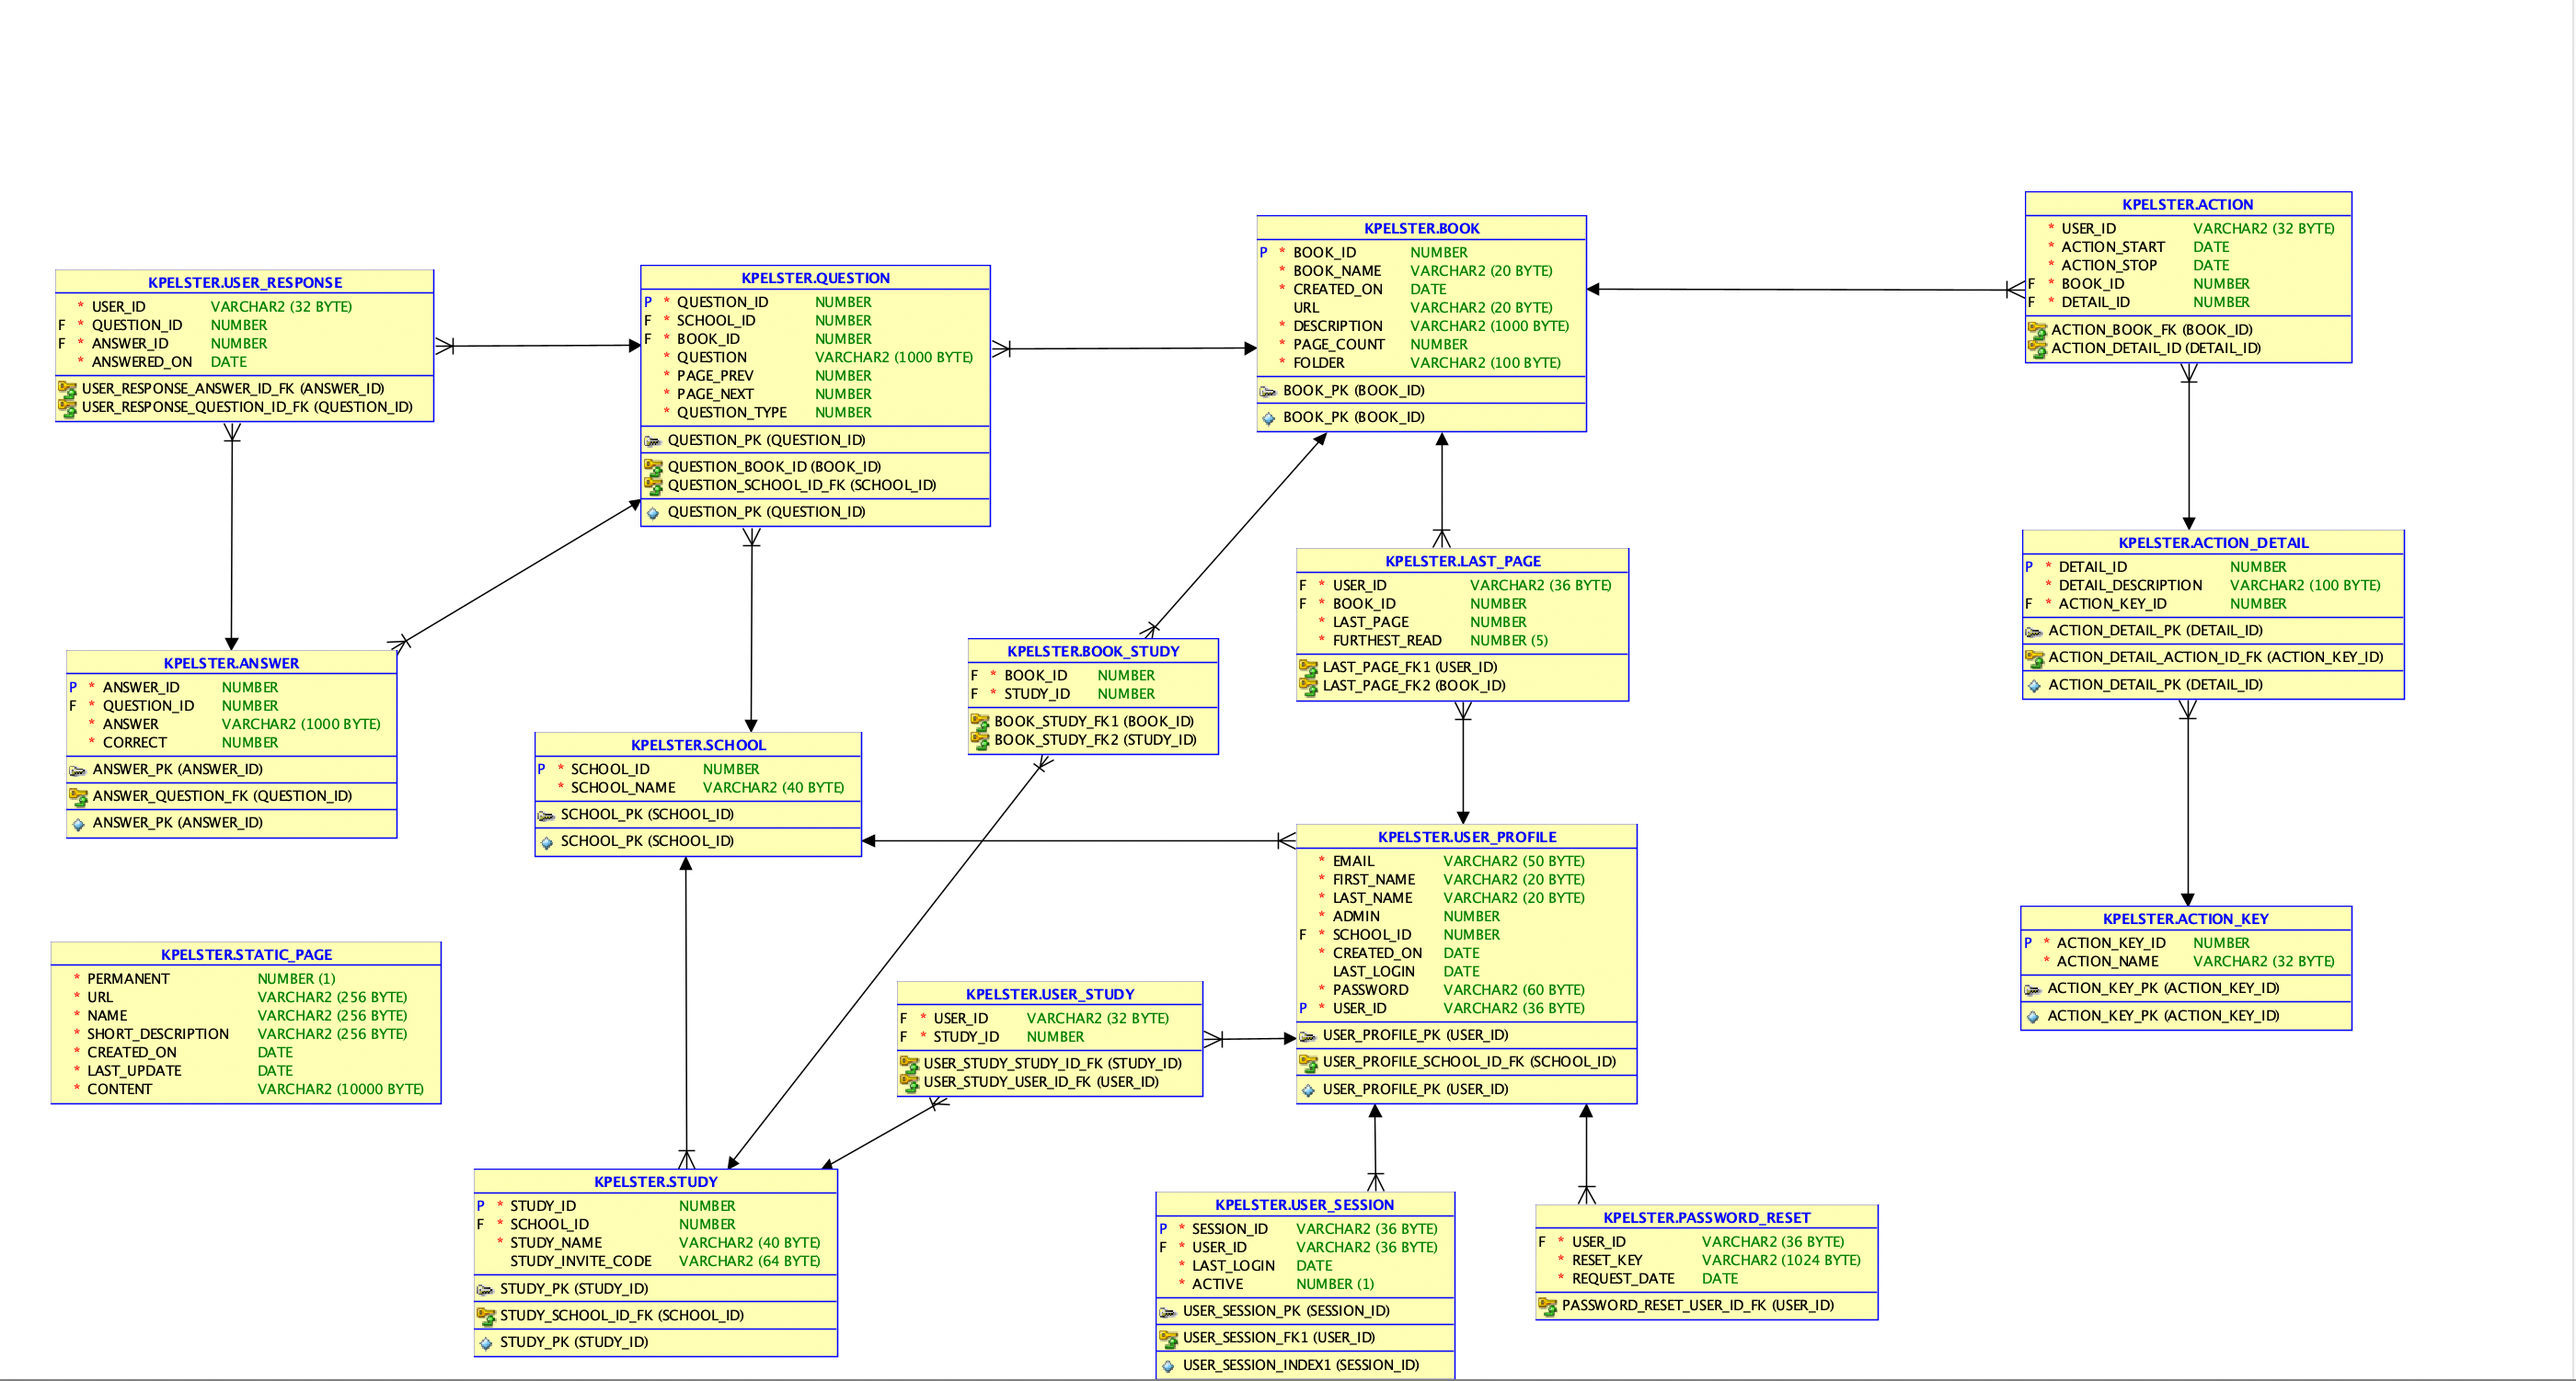
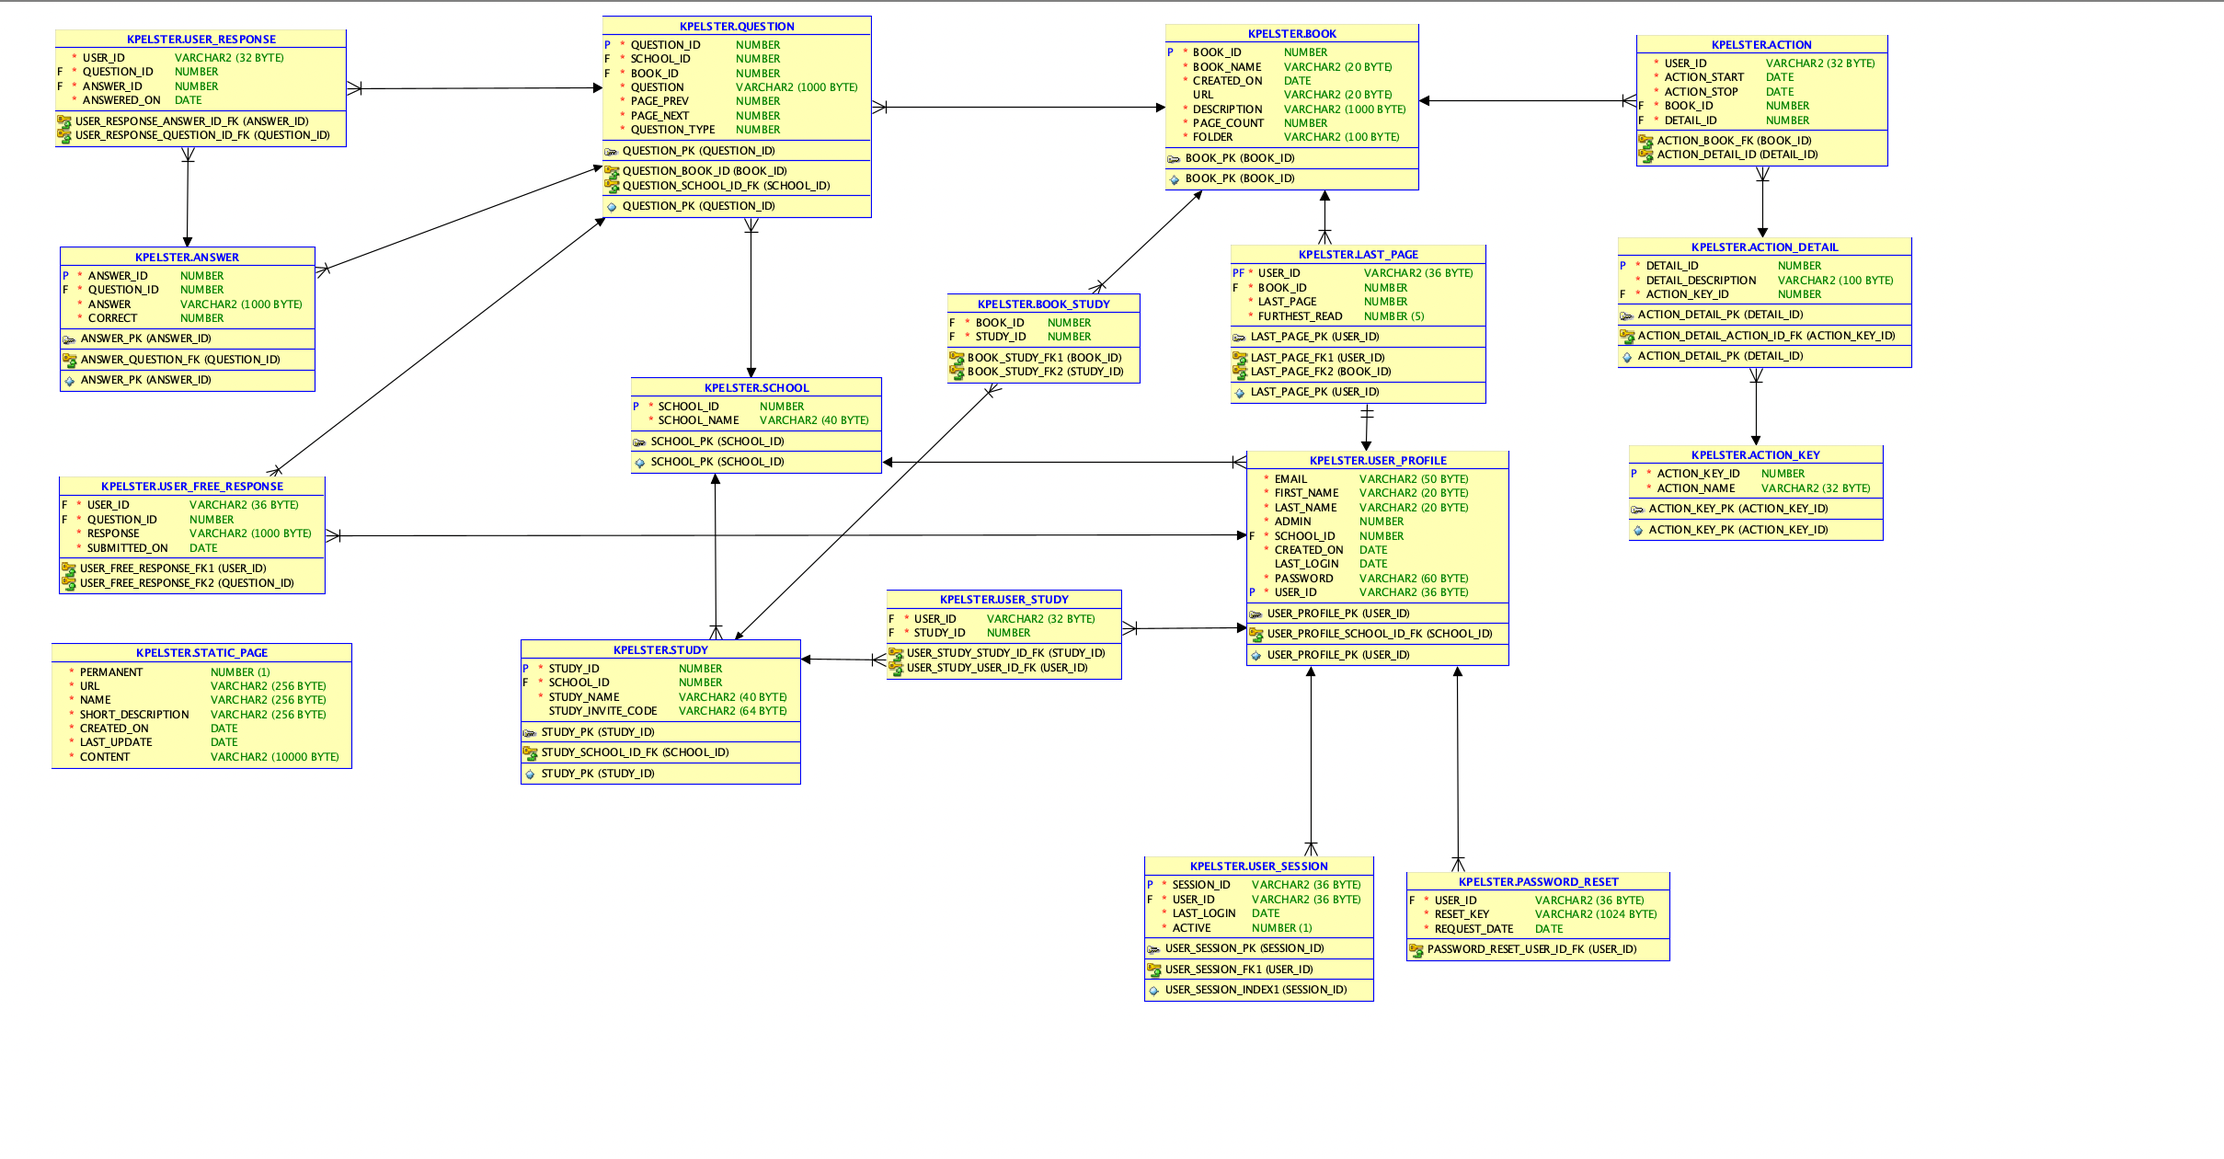
FREE_RESPONSE Table is added in our DB with a trigger and a procedure implemented

diff --git a/docs/schema.md b/docs/schema.md
@@ -19,7 +19,7 @@ Table of Contents:
  - [`BOOK_STUDY`](#BOOK_STUDY)
  - [`LAST_PAGE`](#LAST_PAGE)
  - [`STATIC_PAGE`](#STATIC_PAGE)
-
+ - [`USER_FREE_RESPONSE`](#USER_FREE_RESPONSE)
 <br>
 
 # ACTION
@@ -232,3 +232,16 @@ This table stores static pages (e.g. about page, data disclosure, consent, etc.)
 | CREATED_ON | Date when the static page is created on|
 | LAST_UPDATE | Date when the static page is last updated on|
 | CONTENT | Full content that the static page holds |
+
+<br>
+
+# USER_FREE_RESPONSE
+
+This table will keep track of user free responses (their answers to free response questions)
+
+| column name | description |
+|---|---|
+| USER_ID | ID to uniquely identify a user |
+| QUESTION_ID | Number ID to uniquely identify question |
+| RESPONSE | Response provided by the user to the free response question |
+| SUBMITTED_ON | Date when the user response to the free response question is submitted |
